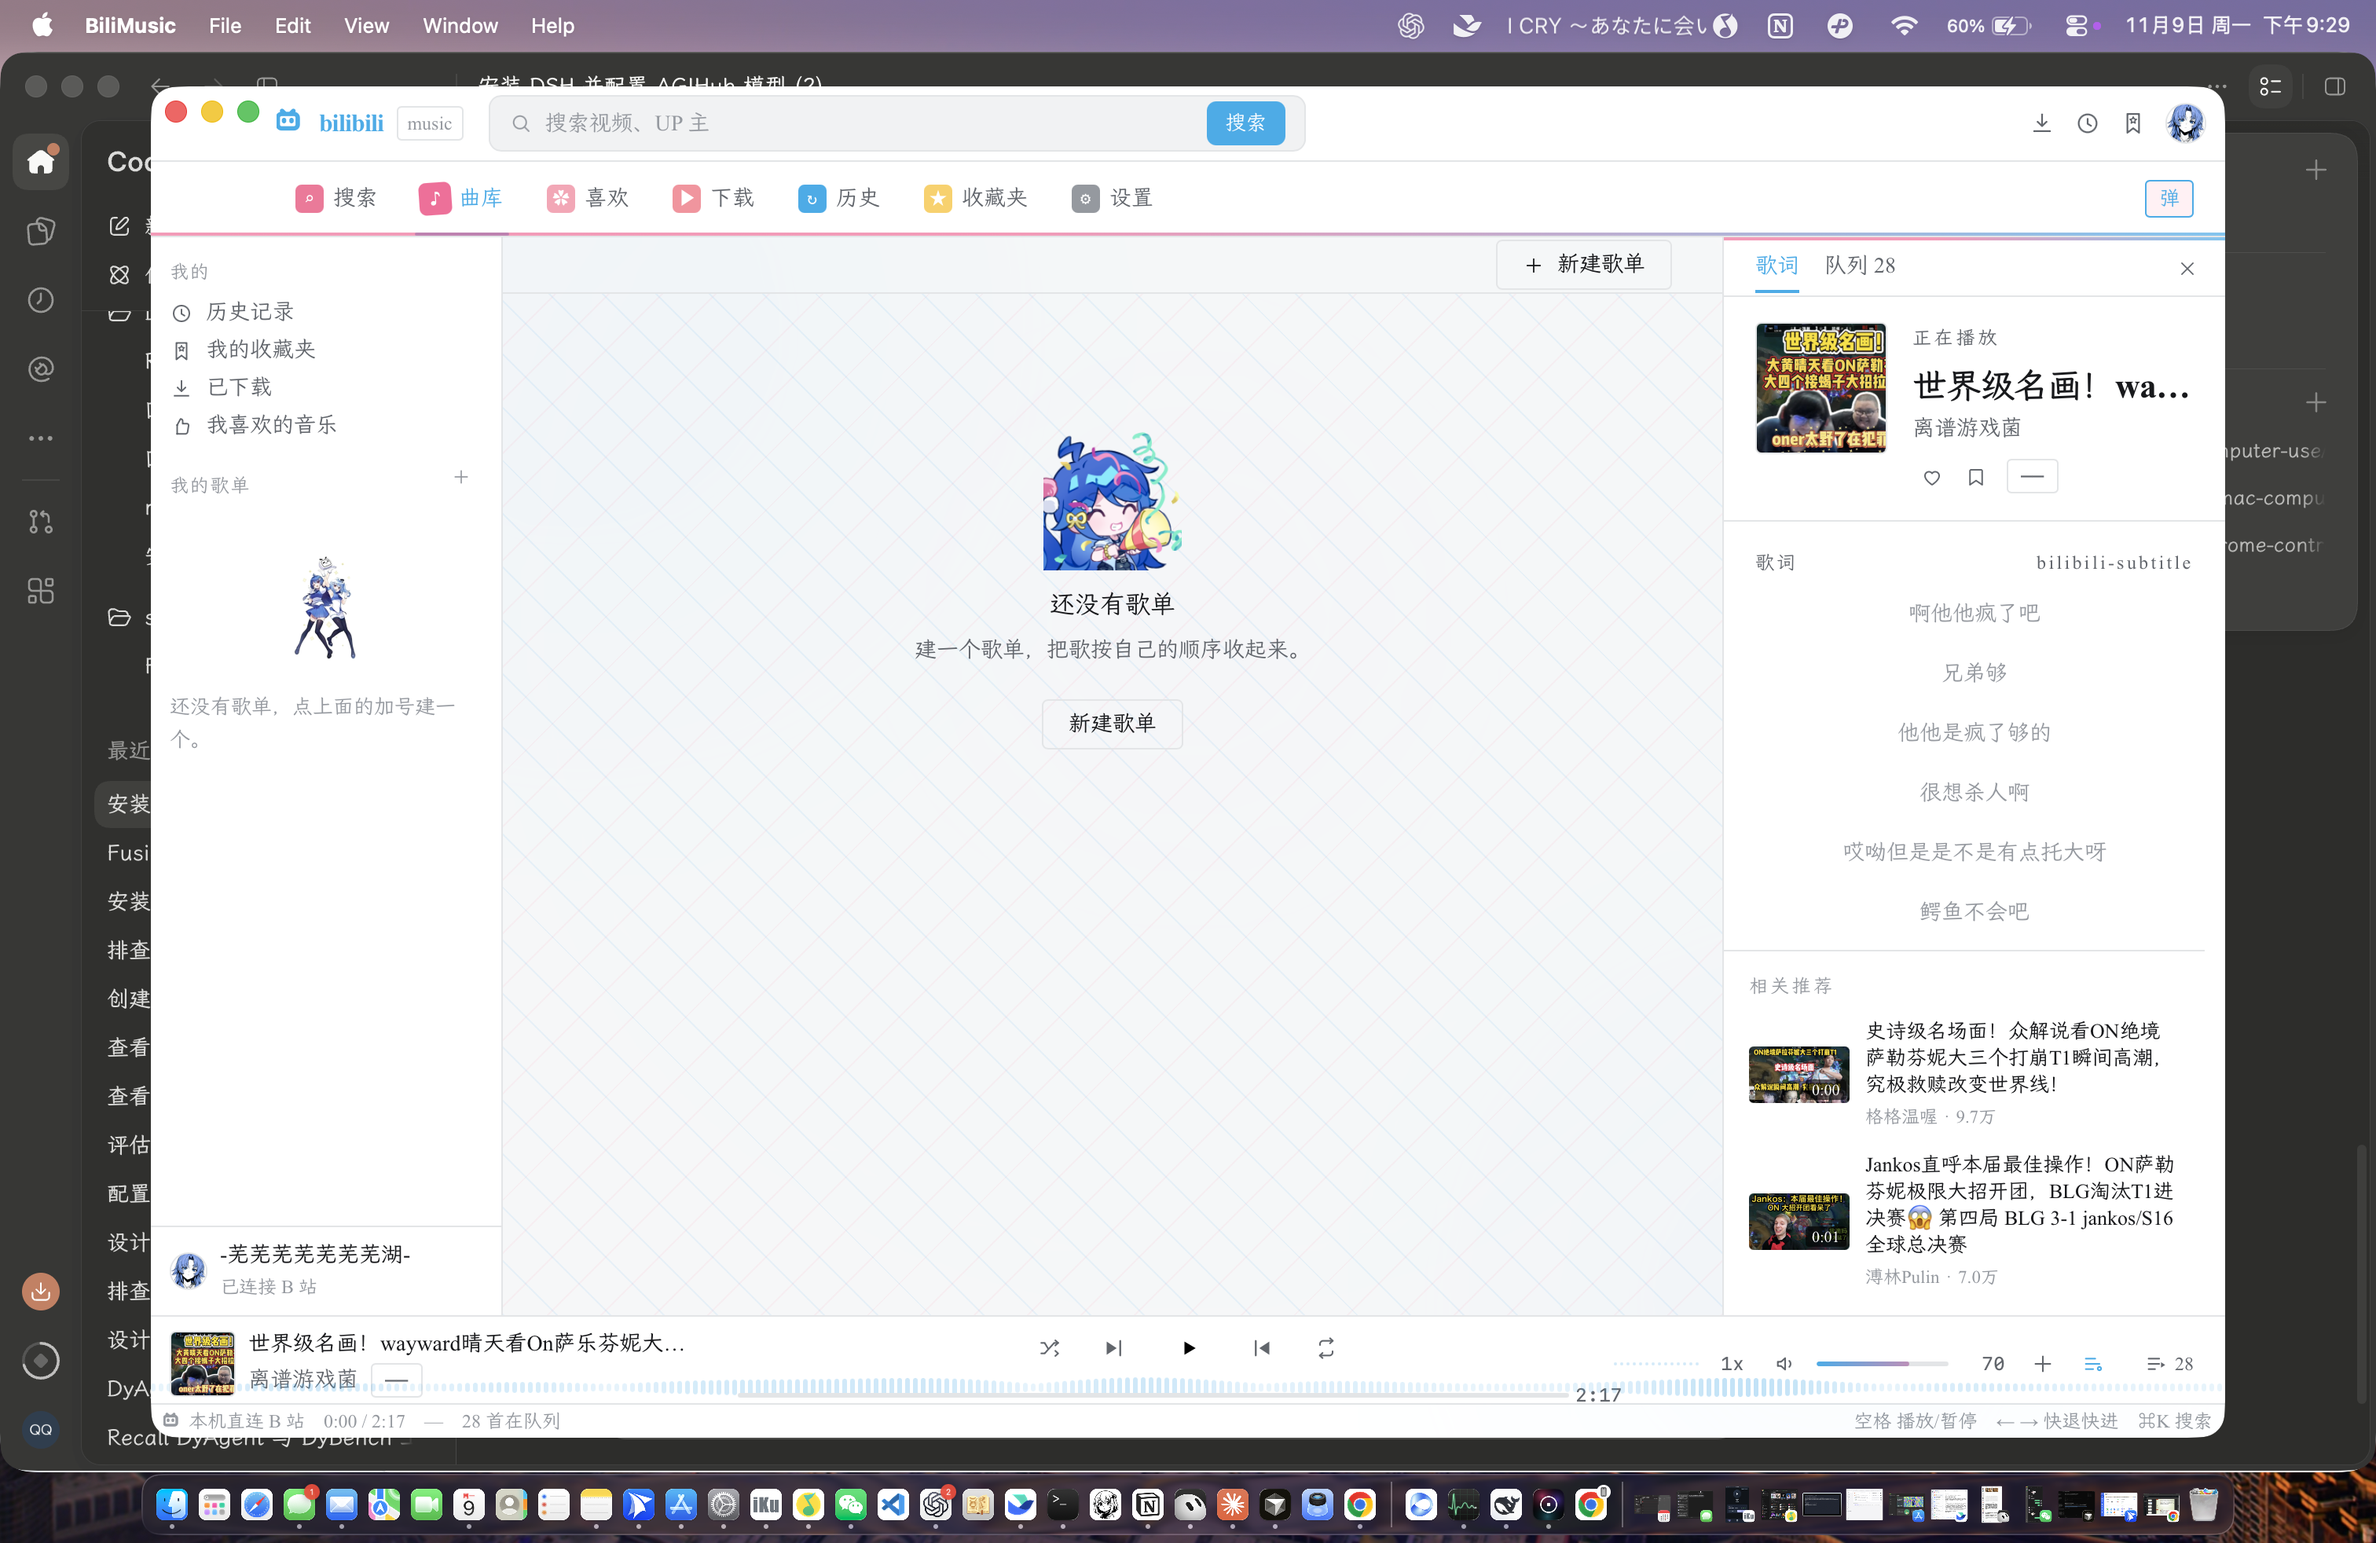
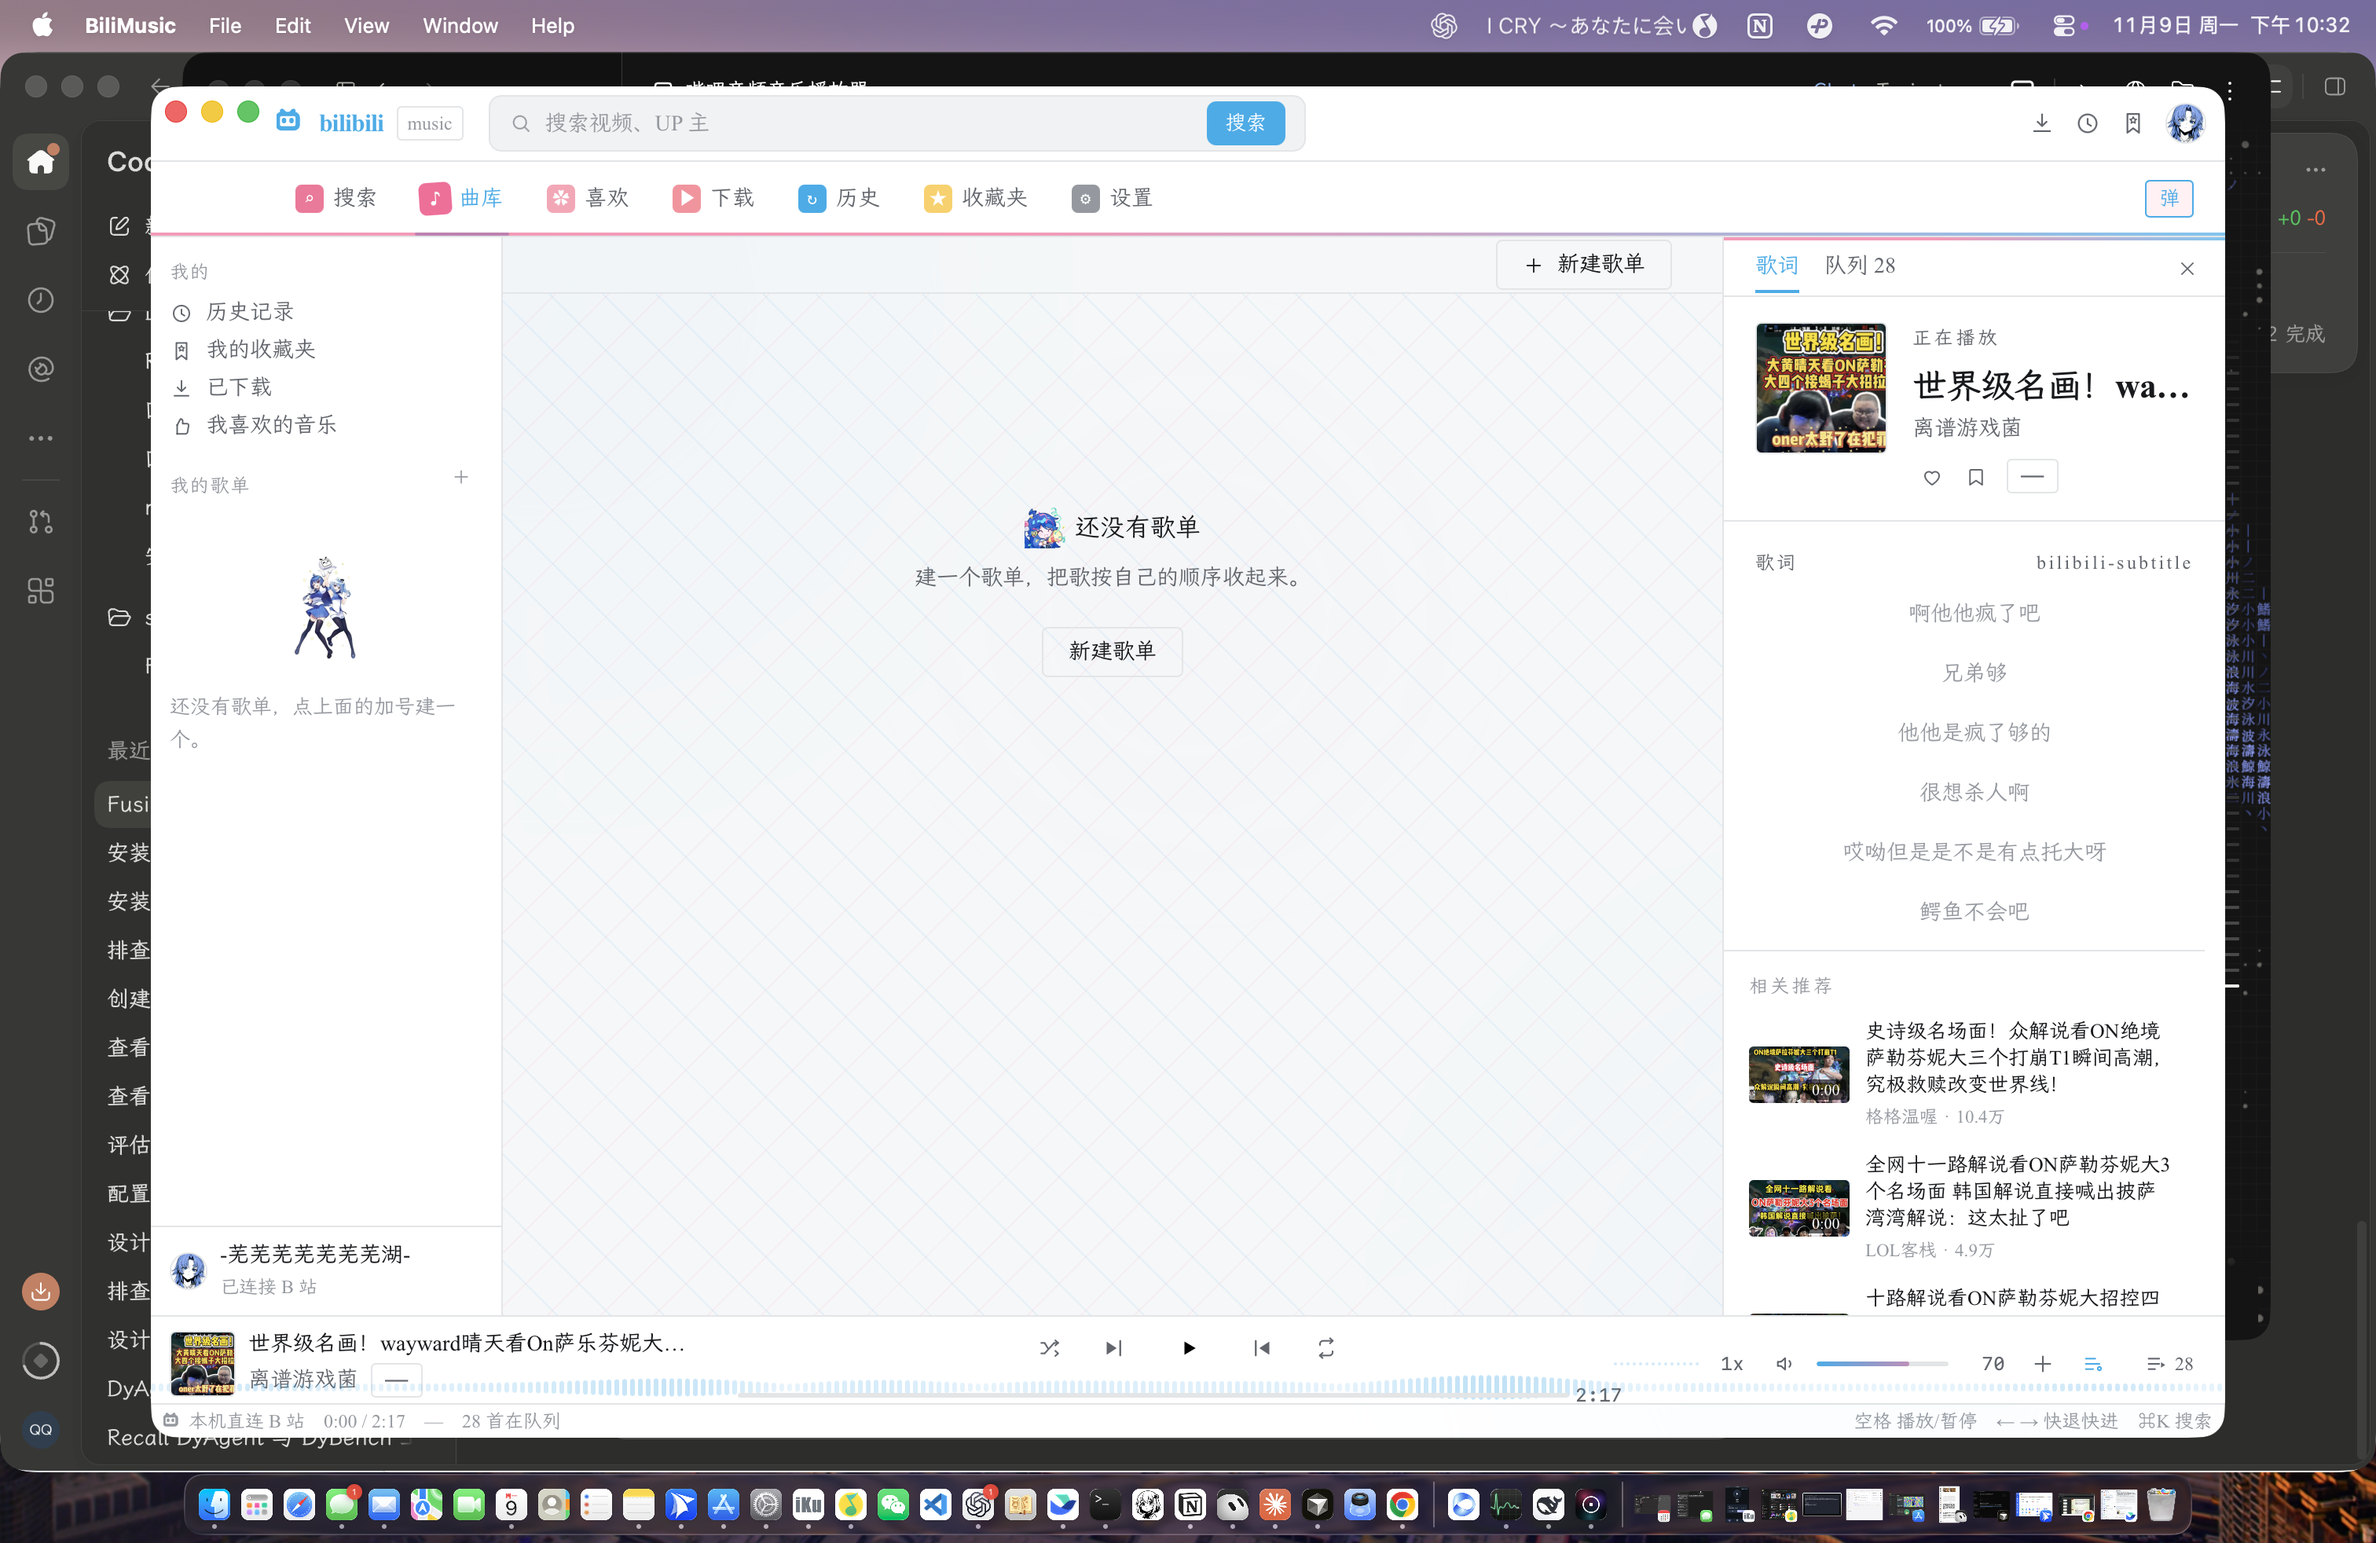
fix: 2233 元素收敛到原生用量，去掉白底方块与过大的框

diff --git a/apps/desktop/src/shared/ui/EmptyState.tsx b/apps/desktop/src/shared/ui/EmptyState.tsx
@@ -28,22 +28,25 @@ type EmptyStateProps = {
 export function EmptyState({ icon, mascot, title, detail, action, compact = false }: EmptyStateProps) {
   return (
     <div className={compact ? 'flex flex-col items-center px-4 py-10 text-center' : 'flex flex-col items-center px-3 py-16 text-center'}>
-      {mascot ? (
-        <img
-          src={MASCOT_SRC[mascot]}
-          alt=""
-          aria-hidden
-          className="bili-mascot h-[88px] w-[88px] select-none object-contain"
-          draggable={false}
-        />
-      ) : icon === 'biliTv' ? (
+      {mascot ? null : icon === 'biliTv' ? (
         <span className="text-[var(--accent)]">
           <BiliTvArt />
         </span>
       ) : (
         <Icon name={icon} size={22} className="text-[var(--text-2)]" />
       )}
-      <h2 className="mt-3 text-[16px] font-medium text-[var(--text-1)]" title={title}>
+      <h2 className="mt-3 flex items-center justify-center gap-1.5 text-[16px] font-medium text-[var(--text-1)]" title={title}>
+        {mascot ? (
+          /* 这两张是 B 站的聊天表情，原生用法是 24–32px 挂在文字旁；
+             放大成主插图就会露出方底、压过整页的克制感。 */
+          <img
+            src={MASCOT_SRC[mascot]}
+            alt=""
+            aria-hidden
+            draggable={false}
+            className="h-[26px] w-[26px] shrink-0 select-none object-contain mix-blend-multiply"
+          />
+        ) : null}
         {title}
       </h2>
       <p className="mt-2 max-w-xs text-[14px] leading-relaxed text-[var(--text-2)]">{detail}</p>

diff --git a/apps/desktop/src/ui.css b/apps/desktop/src/ui.css
@@ -690,25 +690,6 @@ select:focus-visible {
   height: 6px;
 }
 
-/* 2233 娘贴纸的轻微浮动。B 站把自己的站娘用在 404 与活动页时也是会动的，
-   一个完全静止的空态显得像挂了。幅度压到 3px 以内，不抢注意力。 */
-@keyframes bili-mascot-bob {
-  0%, 100% { transform: translateY(0) rotate(0deg); }
-  50% { transform: translateY(-3px) rotate(-1.2deg); }
-}
-
-.bili-mascot {
-  animation: bili-mascot-bob 3.6s ease-in-out infinite;
-  transform-origin: 50% 85%;
-  will-change: transform;
-}
-
-/* 尊重系统的「减少动态效果」设置 */
-@media (prefers-reduced-motion: reduce) {
-  .bili-mascot {
-    animation: none;
-  }
-}
 
 /* 卡片 hover 弹幕：从右边缘进入，走到左边缘之外。 */
 @keyframes bili-card-danmaku {

diff --git a/apps/desktop/src/features/settings/SettingsView.tsx b/apps/desktop/src/features/settings/SettingsView.tsx
@@ -91,7 +91,7 @@ export function SettingsView() {
           <Section title="账号">
             {user ? (
               <div className="flex items-center gap-4">
-                <FramedAvatar src={user.avatar} alt={user.uname} size={104} />
+                <FramedAvatar src={user.avatar} alt={user.uname} size={56} />
                 <div className="min-w-0 flex-1">
                   <div className="truncate text-[16px] text-[var(--text-1)]" title={user.uname}>
                     {user.uname}
